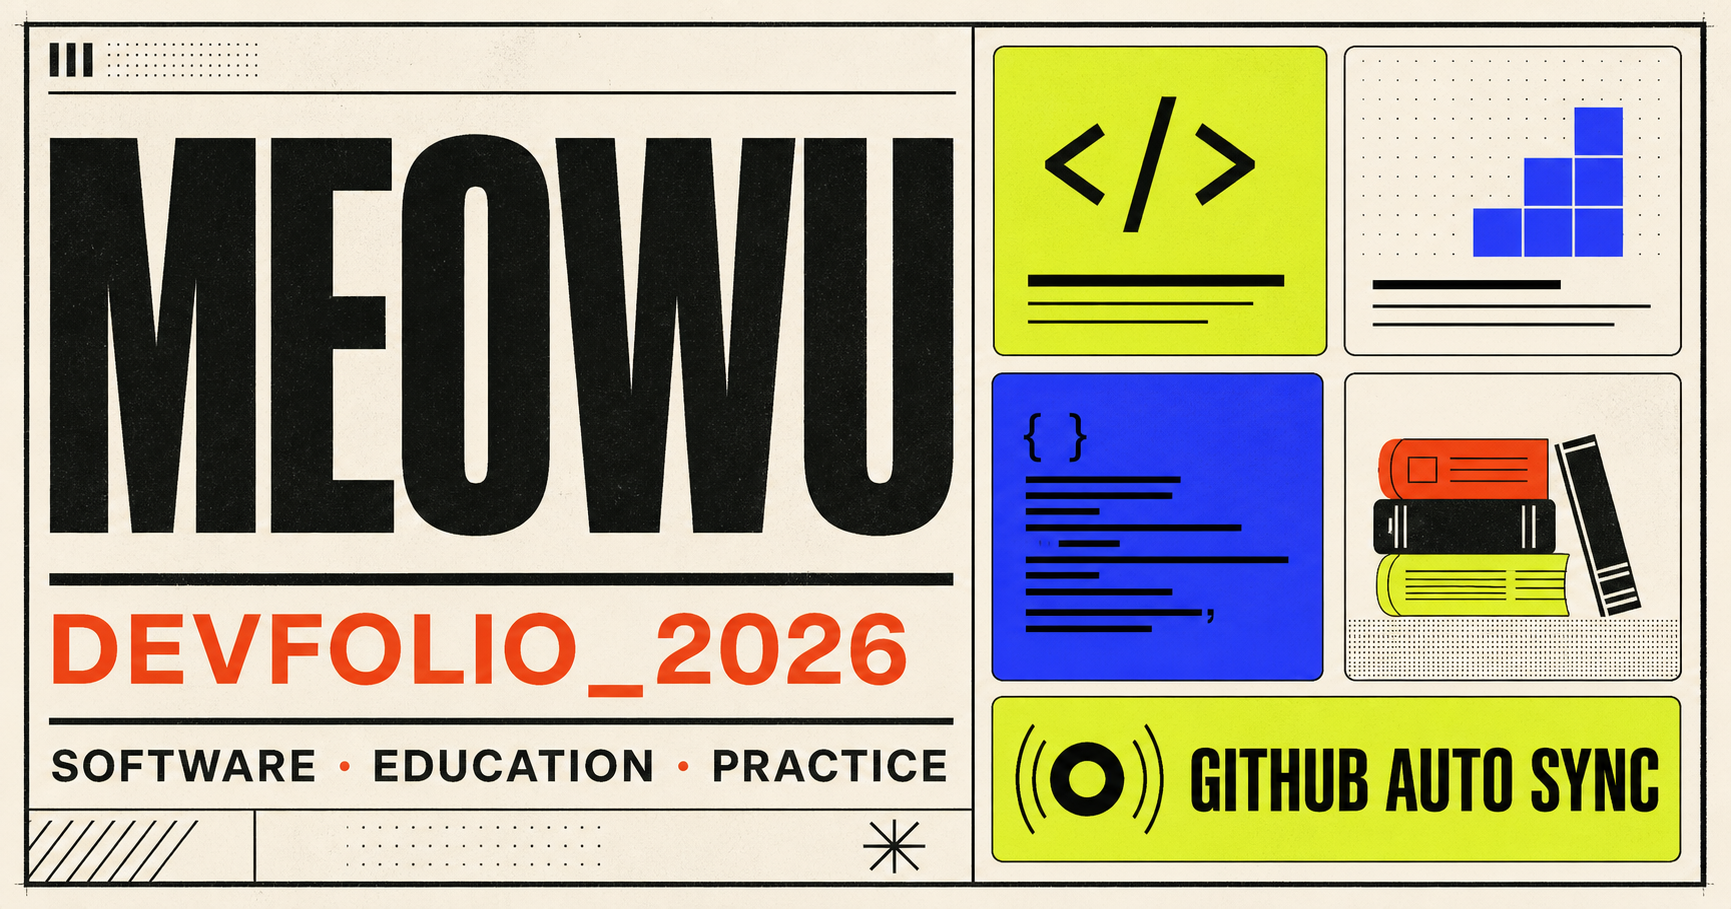
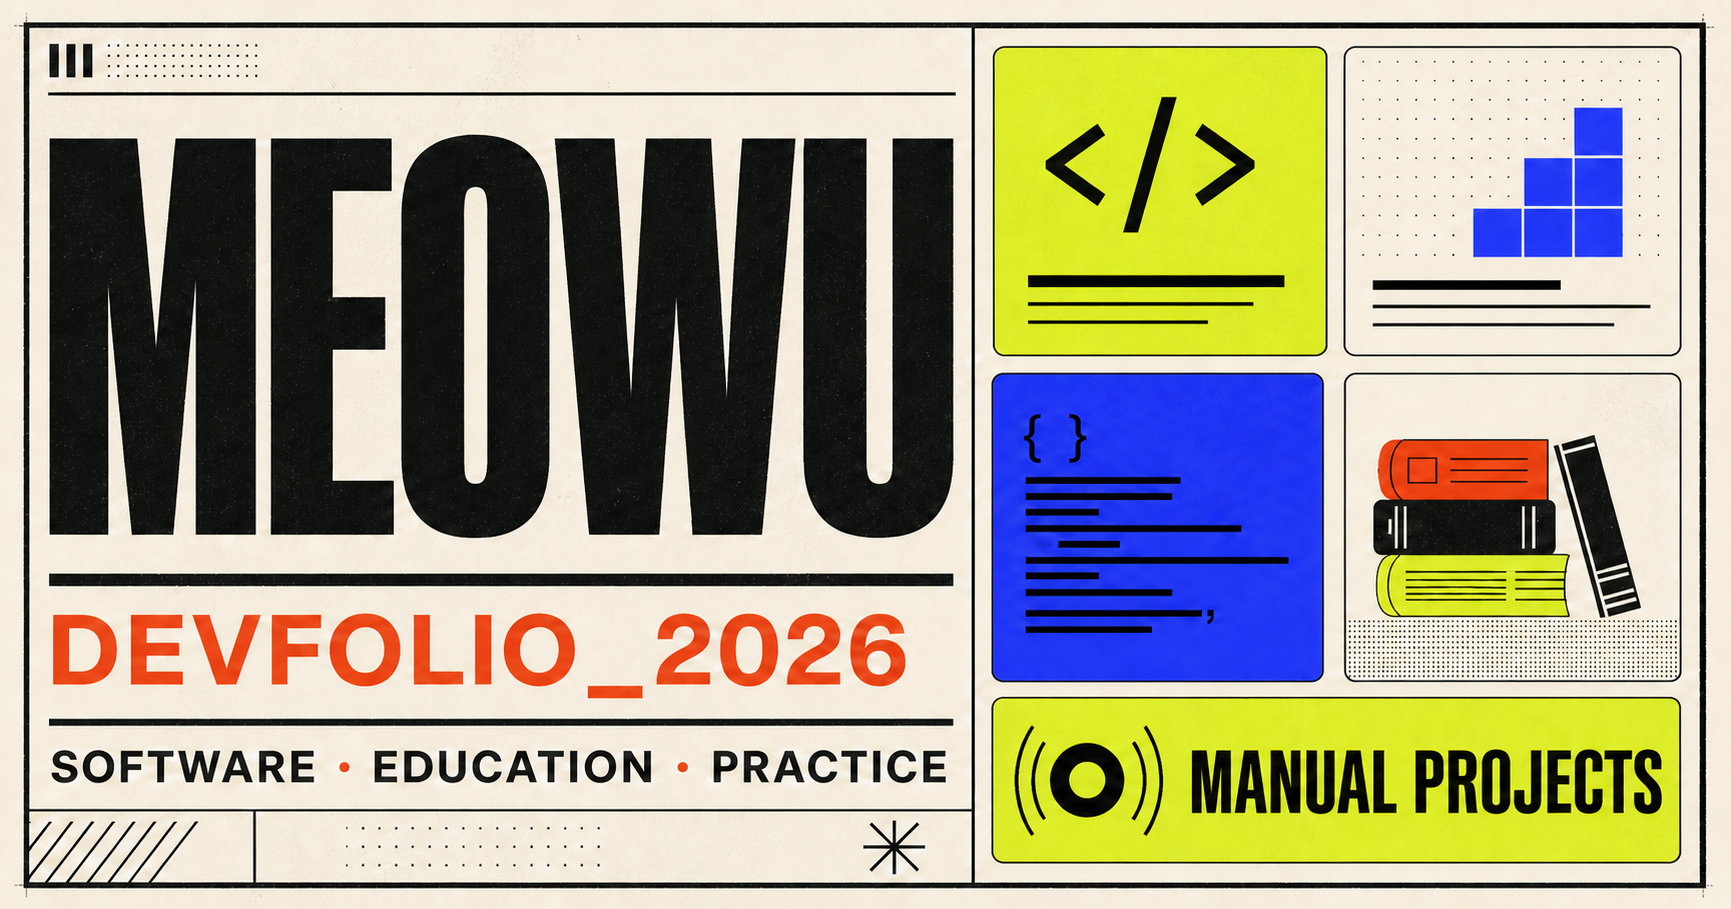
Remove GitHub repository auto-sync

diff --git a/app/page.tsx b/app/page.tsx
@@ -1,13 +1,10 @@
 import { profile, projects, stats } from "./portfolio-data";
-import GitHubProjects from "./GitHubProjects";
 
 function Arrow() {
   return <span aria-hidden="true">↗</span>;
 }
 
 export default function Home() {
-  const manualRepoUrls = projects.map((project) => project.repoUrl);
-
   return (
     <main>
       <header className="site-header">
@@ -87,17 +84,10 @@ export default function Home() {
             <h2>把学习结果，<br />做成看得见的作品。</h2>
           </div>
           <p>
-            精选项目保留自定义截图与 AI 摘要；其余公开仓库由 GitHub
-            自动发现，新仓库无需改动页面即可生成卡片。
+            每个项目都由我手动整理截图、README 摘要与技术栈，
+            让作品呈现保持准确、完整，也更能体现实践过程。
           </p>
         </div>
-
-        {profile.autoSyncGitHub && (
-          <div className="github-sync-status" aria-label="GitHub 自动同步已开启">
-            <span><i /> GITHUB AUTO SYNC</span>
-            <strong>@{profile.githubUsername}</strong>
-          </div>
-        )}
 
         <div className="project-grid">
           {projects.map((project, index) => (
@@ -142,23 +132,19 @@ export default function Home() {
             </article>
           ))}
 
-          {profile.autoSyncGitHub && (
-            <GitHubProjects
-              username={profile.githubUsername}
-              hiddenRepositories={profile.hiddenRepositories}
-              manualRepoUrls={manualRepoUrls}
-            />
-          )}
-
           <article className="add-project-card" id="project-guide">
             <span className="add-icon" aria-hidden="true">＋</span>
             <p className="eyebrow">YOUR NEXT BUILD</p>
             <h3>下一个项目，<br />从这里加入。</h3>
             <p>
-              新建公开仓库后会自动生成卡片；如需自定义截图和 AI 摘要，再把它加入精选项目配置。
+              完成新项目后，复制一份项目配置，替换截图、摘要、技术栈和仓库链接即可加入主页。
             </p>
-            <a href={profile.githubUrl} target="_blank" rel="noreferrer">
-              前往 GitHub <Arrow />
+            <a
+              href={`${profile.githubUrl}/MeowuzZ.github.io#新增或修改项目`}
+              target="_blank"
+              rel="noreferrer"
+            >
+              查看添加说明 <Arrow />
             </a>
           </article>
         </div>

diff --git a/app/globals.css b/app/globals.css
@@ -332,48 +332,13 @@ footer a:hover {
   line-height: 1.9;
 }
 
-.github-sync-status {
-  margin: -28px 0 28px;
-  padding: 12px 14px;
-  display: flex;
-  align-items: center;
-  justify-content: space-between;
-  gap: 18px;
-  border-top: 1px solid var(--line);
-  border-bottom: 1px solid var(--line);
-  color: var(--muted);
-  font-family: "SFMono-Regular", Consolas, monospace;
-  font-size: 10px;
-  letter-spacing: 0.08em;
-}
-
-.github-sync-status span {
-  display: inline-flex;
-  align-items: center;
-  gap: 9px;
-}
-
-.github-sync-status i {
-  width: 7px;
-  height: 7px;
-  display: inline-block;
-  border-radius: 50%;
-  background: #4caf50;
-  box-shadow: 0 0 0 4px rgba(76, 175, 80, 0.14);
-}
-
-.github-sync-status strong {
-  color: var(--ink);
-}
-
 .project-grid {
   column-count: 3;
   column-gap: 24px;
 }
 
 .project-card,
-.add-project-card,
-.github-message-card {
+.add-project-card {
   width: 100%;
   margin: 0 0 24px;
   display: inline-block;
@@ -381,57 +346,6 @@ footer a:hover {
   overflow: hidden;
   background: #fffdf7;
   border: 1px solid var(--ink);
-}
-
-.github-message-card {
-  min-height: 220px;
-  padding: 28px;
-  background: var(--paper-deep);
-  color: var(--muted);
-}
-
-.github-message-card strong {
-  display: block;
-  margin-top: 22px;
-  color: var(--ink);
-  font-size: 20px;
-}
-
-.github-message-card p {
-  margin: 14px 0 0;
-  font-size: 12px;
-  line-height: 1.8;
-}
-
-.github-message-error {
-  border-style: dashed;
-}
-
-.sync-loader,
-.sync-check {
-  width: 42px;
-  height: 42px;
-  display: grid;
-  place-items: center;
-  border: 1px solid var(--ink);
-  border-radius: 50%;
-}
-
-.sync-loader {
-  border-right-color: transparent;
-  animation: sync-spin 800ms linear infinite;
-}
-
-.sync-check {
-  background: var(--acid);
-  color: var(--ink);
-  font-weight: 900;
-}
-
-@keyframes sync-spin {
-  to {
-    transform: rotate(360deg);
-  }
 }
 
 .project-card {
@@ -543,16 +457,6 @@ footer a:hover {
 
 .project-highlights li + li {
   margin-top: 5px;
-}
-
-.repo-metrics {
-  margin: -4px 0 18px;
-  display: flex;
-  flex-wrap: wrap;
-  gap: 12px;
-  color: var(--muted);
-  font-family: "SFMono-Regular", Consolas, monospace;
-  font-size: 9px;
 }
 
 .tech-list {

diff --git a/app/portfolio-data.ts b/app/portfolio-data.ts
@@ -7,9 +7,6 @@ export const profile = {
   focus: "软件开发",
   email: "18551047683@163.com",
   githubUrl: "https://github.com/MeowuzZ",
-  githubUsername: "MeowuzZ",
-  autoSyncGitHub: true,
-  hiddenRepositories: ["MeowuzZ.github.io"],
   availability: "OPEN TO WORK",
   intro:
     "不要掉头发T-T不要掉头发T-T不要掉头发T-T不要掉头发T-T不要掉头发T-T不要掉头发T-T不要掉头发T-T不要掉头发T-T不要掉头发T-T",

diff --git a/README.md b/README.md
@@ -9,8 +9,6 @@
 - `school`：你的学校
 - `email`：你的邮箱
 - `githubUrl`：你的 GitHub 地址
-- `githubUsername`：用于自动读取公开仓库的 GitHub 用户名
-- `hiddenRepositories`：不希望展示的仓库名称
 - `intro`：个人简介
 
 统计数字在同一个文件的 `stats` 中，可按真实情况修改。
@@ -31,18 +29,6 @@
 把新的 PNG、JPG 或 WebP 截图放进 `public/projects/`，然后把 `thumbnail` 改成 `/projects/文件名.png`。图片推荐使用 16:10 横图，页面会自动裁切并保持统一的预览比例。
 
 卡片使用 CSS 三列瀑布流，不需要手工调整高度；平板会自动改为两列，手机会自动改为一列。
-
-## GitHub 自动联动
-
-主页访问时会调用 GitHub 的公开仓库接口，并为尚未手动配置的仓库自动生成卡片：
-
-- 新建公开仓库后，无需重新构建主页，刷新页面即可出现
-- 卡片自动使用仓库名称、Description、语言、Topics、Stars 和主页链接
-- Fork、归档仓库以及 `hiddenRepositories` 中的仓库不会显示
-- 如果某仓库已写入 `projects`，手动配置优先，不会出现重复卡片
-- 私有仓库不会被公开接口读取，也不会显示
-
-建议为每个新仓库填写 GitHub Description、Topics 和 Homepage，它们会直接提升自动卡片的完整度。需要自定义项目截图或 AI 总结时，再把该仓库加入 `projects` 数组。
 
 ## 自动部署到 GitHub Pages
 
